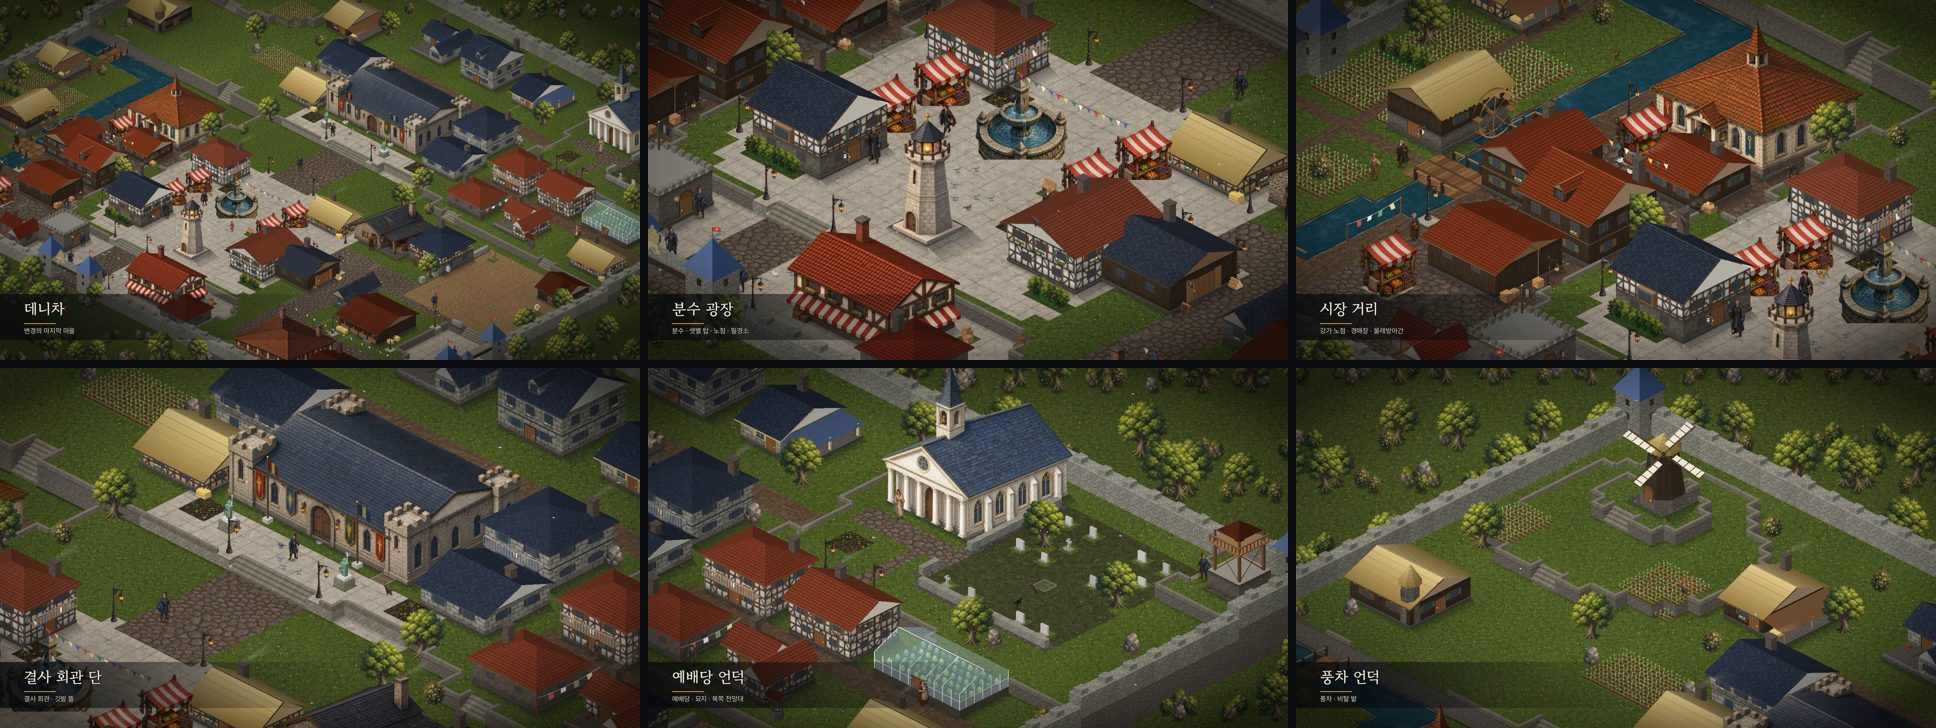
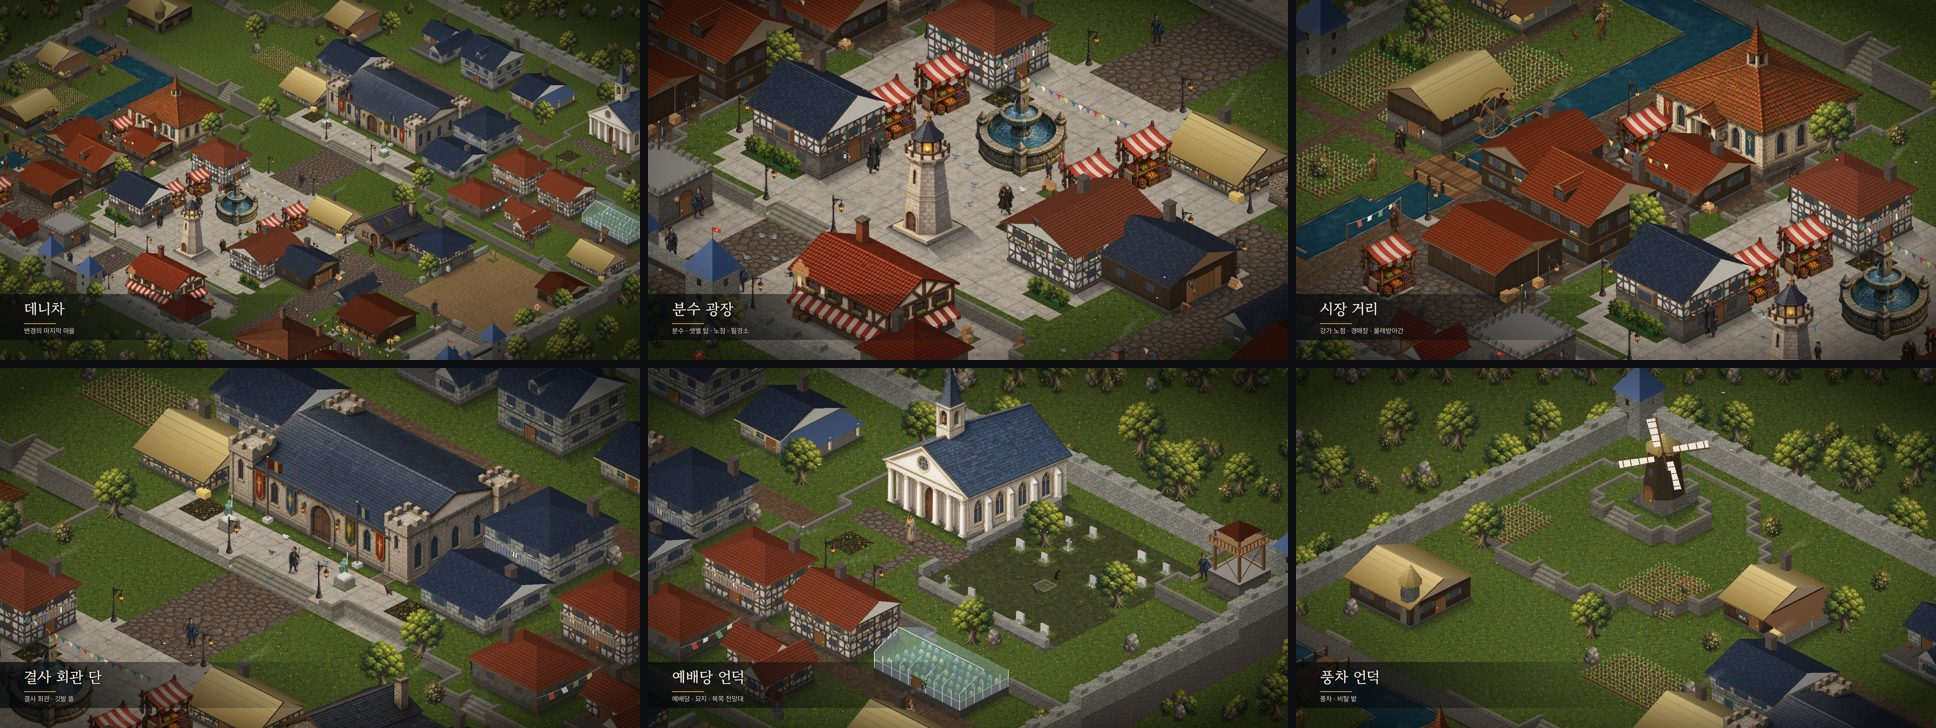
docs(world): Phase 4 마무리 — 완료 기준 표 · 최종 녹화(투어 낮 · 밤 · 남문 · 계단) · 부하 · 회귀
- 최종 녹화(발자국 깊이 · 건물 그늘 · 비둘기 떼 뒤): 투어 낮 · 밤 전경 + 구획, 남문 전/후, 계단(1층 광장 → 2층 결사 회관 단), 남문 도착 연출.
- 부하(STRESS_TEST 150초, 같은 시각): 100ms 안 최대 동시 접속 Phase 3 1,750 → Phase 4 1,820 · 1,792, 후반 평균 지연 138 → 157 · 181ms
  (같은 서버 두 번에도 24ms 흔들림 — Windows 실서버 재측정은 실기 확인 필요). 시야 반경 그대로.
- 회귀 58개: 56 통과, soup은 부하 탓 시간 초과(다시 돌려 85초 통과), hotfeel fail=4는 Phase 4가 만든 회귀 → fix(move)(ae95c1a).
  같은 자리에서 training도 훈련장 밖에 서 있었다(스크린샷만 보는 시나리오) — 판정 줄 보강은 Phase 6으로.

Claude-Session: https://claude.ai/code/session_01Q63QbyxcNzaDzeRgPoMus2

diff --git a/docs/upgrade/PHASE_4.md b/docs/upgrade/PHASE_4.md
@@ -175,3 +175,81 @@
 
 4-A1 데이터 층 · 생성기(지금 마을을 옮겨 그대로 도는지) → 4-A2 높이 엔진(그리기 · 가림 · 마우스 · 강제 이동 대각) → 4-B 새 데니차(84×72 안팎) · 좌표 · NPC ·
 소리 구역 · 바람 · 투어 → 4-C 건물 16종 이상 → 자기 검토 · 부하 · 회귀 · 문서. 하위 단계마다 `feat(world)` 커밋.
+
+| 커밋 | 내용 |
+|---|---|
+| `5b4aec6 feat(world)` | 4-A1 마을 데이터 층 · 생성기 · 카메라 투어 |
+| `eaa9b6e fix(move)` | 멈춤 흔들림 스프링 NaN(Phase 1부터 — 긴 프레임에서 캐릭터가 사라짐) |
+| `2fb16d6 feat(world)` | 4-A2 높낮이 엔진 · 강제 이동 대각 규칙 · 경계 칸 전수 검사 |
+| `1c74e3e feat(world)` | 4-B 새 데니차 84×72 · 구획 11 · NPC 33 · 소리 구역 · 바람 · 설계도 |
+| `a800469 feat(world)` | 4-C 건물 19종 · 주택 변형 10 · 그린 건물 7채 · 소품 15종 · 남문 도착 연출 |
+| `89702e1 assets(art)` | 새 주민 초상화 10장(한 장 5×2 칸) |
+| `2fb78fe fix(world)` | 자기 검토 — 건물 그늘 · 비둘기 떼/물고기 · 발자국 깊이 · 대화 중 이름표 |
+
+## 4. 결과 — 완료 기준
+
+| 기준 | 결과 | 증거 |
+|---|---|---|
+| 마을 전경 · 구획별 스크린샷(낮/밤) + `--script tour` 녹화 | 됨 — 전경 + 구획 11곳, 낮 · 밤 | 아래 전/후 · `img/phase4_after_tour_day.jpg` · `img/phase4_tour_day.webp` · 밤 `img/phase4_after_tour_night.jpg` |
+| 높이 3단 이상이 실제 동선 · 계단 오르내림이 부드럽다(녹화) | 됨 — 주 동선이 0 → 1 → 2 → 3층(예배당), 4층 전망대. 계단은 칸 안에서 고르게 오른다(몸 높이 보간) | `img/phase4_stairs.webp`(분수 광장 1층 → 결사 회관 단 2층, `--script goto:40,27` — 도착 `level=2 z=1.50`) |
+| 서버 충돌과 화면 지형 일치 — 절벽 통과 · 허공 걷기 0(전수 검사) | 됨 — 서버 `[Town] level rules: walkable=3826 … cliffCross=0 airWalk=0 OK`, 클라 `terraincheck` PASS(보이지 않는 벽 0 · 탐침) | 회귀 `terraincheck` |
+| 건물 16종 이상, 같은 건물이 반복돼 보이지 않는다 | 됨 — 종류 19(그린 7 · 키트 12) + 주택 변형 10 · 구획 규칙(지붕 · 벽 · 밤 창빛) · 건물마다 색 흔들기 | `img/phase4c_kit_sheet.jpg` · `img/phase4c_art_vs_kit_1.jpg` |
+| 미니맵 · 월드 지도 · NPC · 퀘스트 좌표 갱신, 기존 퀘스트 스크립트 통과 | 됨 — 미니맵 · 월드 지도는 `TownMap`에서 그린다(새 마을), NPC 33명 자리는 `anchors.txt`, 퀘스트 · 스크립트 좌표는 이름 있는 자리 | 회귀 `map` · `bigmap` · `quest` · `questlog` · `questdone` · `discover` · `ending` · `chapter1` · `talk` · `npc` |
+| STRESS_TEST 전/후 | 됨 — 100ms 안 최대 동시 접속 p3 1750 → p4 1820 · 1792(같은 날 · 같은 조건, 150초). 후반 평균 지연은 p4 쪽이 높게(157 · 181ms vs 138ms) 나와 5장에 그대로 | 5장 |
+
+**전(왼쪽 — 44×44 평지 · 건물 5종) · 후(오른쪽 — 84×72 · 층 0~4 · 건물 19종)**, 같은 투어 첫 장면:
+
+![전경 전 · 후](img/phase4_before_after_overview.jpg)
+
+![전경 · 구획(낮)](img/phase4_after_tour_day.jpg)
+
+| 남문: 전 · 후(들어서는 순간 카메라가 샛별 탑 쪽으로) | 비둘기 떼 — 달려가면 푸드덕 |
+|---|---|
+| ![남문](img/phase4_before_after_gate.jpg) | ![비둘기](img/phase4_birds.webp) |
+
+| 계단 — 1층 광장 → 2층 결사 회관 단 | 남문 도착 연출 |
+|---|---|
+| ![계단](img/phase4_stairs.webp) | ![도착](img/phase4_arrive.webp) |
+
+**새 패킷 · DB**: 새 패킷 0개 · 기존 패킷 변경 0 · DB 변경 없음. `NPC_LIST_NFY`를 24명씩 나눠 두 번 보낸다(패킷 · 클라 변경 없음).
+공유 열거형은 끝에만 추가 — `BuildingKind`(14개), `AmbientKind` · `PropKind`(새 열거형), `NpcRow::role`(끝 필드), 클라 `sfx::Id`(Anvil · Flutter · FishSplash).
+`PacketType` 89개(0~88) 그대로 — 127까지 38개.
+
+## 5. 부하 · 회귀
+
+**부하** — STRESS_TEST 봇 150초, 같은 시각 · 같은 조건(샌드박스 2코어 · Wine)에서 Phase 3 끝 서버와 Phase 4 끝 서버(`server_p4c`)를 번갈아:
+
+| 서버 | 100ms 안 최대 동시 접속 | 후반 평균 지연 |
+|---|---|---|
+| Phase 3 끝 | 1,750 | 138ms |
+| Phase 4 끝 — 1회 | 1,820 | 157ms |
+| Phase 4 끝 — 2회 | 1,792 | 181ms |
+
+처리량(100ms 안 최대 동시 접속)은 같은 수준이고, 후반 평균 지연은 Phase 4 쪽이 20~40ms 높게 나왔다. 같은 서버를 두 번 잰 값도 24ms 흔들려
+샌드박스에서는 원인을 가를 수 없다. Phase 4의 서버 변경은 마을 Zone에만 일을 더한다(이동마다 높이 규칙 덫 `TownRules` · NPC 33명 배회 ·
+`NPC_LIST_NFY` 두 번) — Windows 실서버에서 다시 재야 한다(**실기 확인 필요**). 시야 반경은 바꾸지 않았다(`GViewRange` 9 그대로 — 1장 표).
+
+**회귀** — `tools/sandbox/regress.py` 58개(기존 `--script` 전부 + 판정 줄), Phase 4 최종 클라 · 서버:
+
+- 56개 통과 — 종료 0 · 스크린샷 · 판정 줄 `growcheck pass=15` · `terraincheck PASS` · `birds PASS` · `arrive done` · `hudcheck overlaps=0` ·
+  `wmcheck`(wm · uiedit · chatcfg · hudres) `fail=0`.
+- `soup` 시간 초과(200초) → 같은 실행 파일로 다시 돌리니 85초에 통과. 회귀 도중 다른 빌드를 같이 돌려 프레임이 느려진 탓이다
+  (소프트웨어 렌더링 — 시나리오 시간은 프레임마다 최대 0.05초라 프레임이 느리면 시나리오도 늦어진다).
+- `hotfeel` `[wmcheck] fail=4` → **Phase 4가 만든 회귀였다.** 넓어진 마을에서 훈련장 서쪽 낮은 담 앞(773,758)에 이르면
+  걸음은 화면 위치에서 그은 곧은 선을, "곧게 갈 수 있나" 검사는 칸 중심에서 그은 선을 써서 둘이 갈라졌다 — 새 칸에서는 A* 길(첫 걸음 = 되돌아가기),
+  되돌아온 칸에서는 다시 곧은 선 … 두 칸을 오가며 멈춰 섰다(걸음 기록 `HARVEN_STEP_TRACE`). 훈련장에 들어가지 못해 기술이 "마을 안에서는 싸울 수 없습니다"로 막혔다.
+  같은 자리에서 **`training`도 훈련장 밖에 서 있었다** — 스크린샷만 보는 시나리오라 통과로 보였다.
+  → `fix(move)`: 곧은 선으로 가는 걸음도 새 칸에서 곧게 갈 수 없으면 칸 중심의 선(검사한 그 선)을 쓴다(4-A에서 경로 따라가기에 넣은 검사를 곧은 선에도).
+  시나리오도 고쳤다: 훈련장까지 걷기 제한 12 → 30초, 허수아비 두 칸 앞 → 바로 앞(방패 강타 사거리 1), 누름 사이 기다림을 시계로
+  (재사용 대기 · 글 안내 1초는 시계 기준인데 시나리오 시간으로 재서, 프레임이 0.3초로 느린 넓은 마을에서는 0.9초가 5초를 넘어 재사용 대기가 먼저 풀렸다).
+  고친 뒤 `hotfeel` **pass=5 fail=0**, `training`은 훈련장 안(778,754 — 훈련 계측 45타), 멈추던 자리에서 출발한 `goto`도 곧장 들어간다.
+  전체 회귀는 Phase 5 끝에서 이 수정과 함께 다시 돌렸다([PHASE_5](PHASE_5.md) 부하 · 회귀).
+
+## 6. 알려진 한계 · 실기 확인 필요
+
+- **미완**: 새 주민 걷는 그림(기존 주민 옷을 빌려 입었다 — 동작판 10장 5크레딧 · 사용자 확인), 키트 12종의 그린 그림(6크레딧 · 확인), 바닥 잔 무늬(Phase 6 후보),
+  4-D 마을 밖 지형 높이 · 편집 모드(선택 항목 — 하지 않았다).
+- 그린 건물의 깊이는 천막꼴(두 벽면)이라, 지붕 위를 나는 새가 그린 건물의 실루엣 안에서 잠깐 가려질 수 있다(키트 건물 · 지형은 정점마다 정확).
+- 소리(소리 구역 · 날개 소리 · 퐁당)는 샌드박스에 소리 장치가 없어 합성 WAV의 수치(RMS)로만 확인했다 — **실기 확인 필요**.
+- 60fps(실제 GPU) · MSVC 빌드(새 파일 `render/Critters` · `Buildings` · `Wind` · `audio/Ambience` — CMake GLOB · vcxproj) · Windows 실서버 STRESS 수치 — **실기 확인 필요**.
+- 회귀 목록 중 판정 줄 없이 스크린샷만 보는 시나리오는 기능이 틀려도 통과로 보인다(`training`이 훈련장 밖에서 찍혔다) — 판정 줄 보강은 Phase 6(통합 QA)로 넘긴다.
